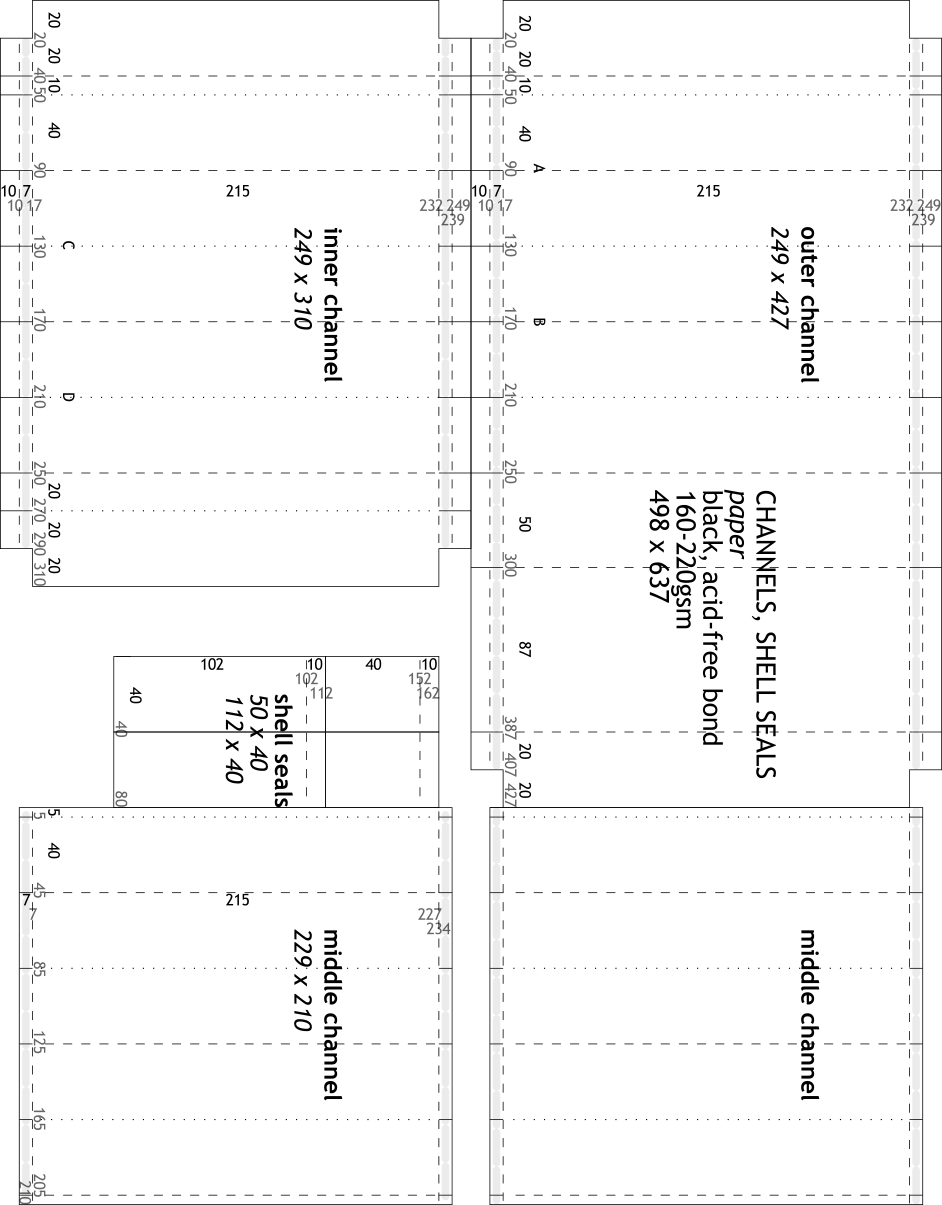
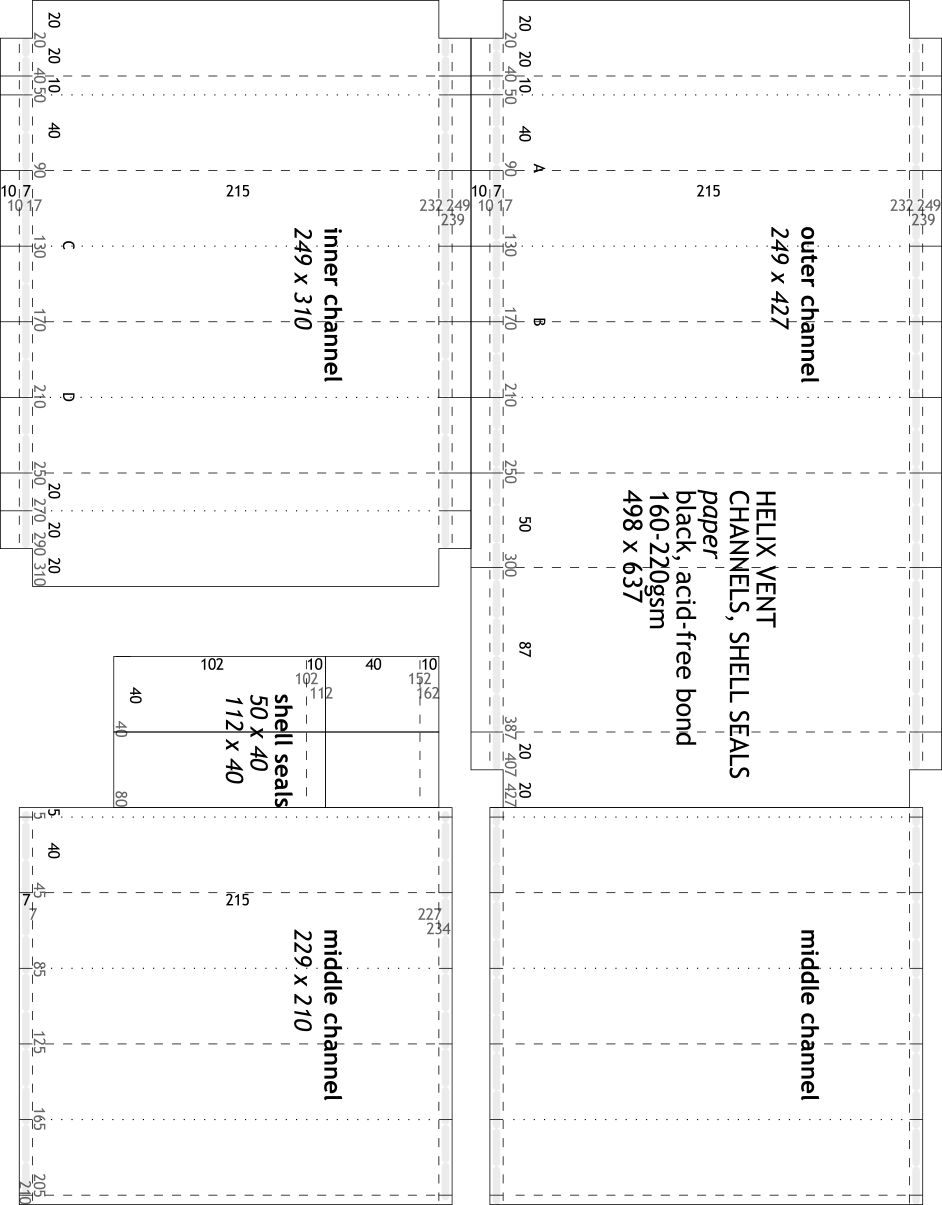
helix-s renaming, make, air

Changed region(s): [[0.6465, 0.3992, 0.8312, 0.6448]]

diff --git a/manuscript/air.md b/manuscript/air.md
@@ -85,12 +85,15 @@ Here are further design constraints, photos, plans, and instructions for making 
 ### helix vent {#helix-vent}
 
 ![](images/helix-vent-complete.jpg)  
-![](images/helix-vent-core-exploded.jpg)  
+
+This photo is of the old helix vent. The new one is shorter, narrower, thicker, but otherwise the same.
+
 [![plan: helix vent, assembly](images/helix-vent-assembly.png)](http://darkroomretreat.com/img/plan/helix-vent-assembly.pdf)  
 [![plan: helix vent, channels](images/helix-vent-channels.png)](http://darkroomretreat.com/img/plan/helix-vent-channels.pdf)  
 [![plan: helix vent, inner wall](images/helix-vent-inner-wall.png)](http://darkroomretreat.com/img/plan/helix-vent-inner-wall.pdf)  
 [![plan: helix vent, outer wall](images/helix-vent-outer-wall.png)](http://darkroomretreat.com/img/plan/helix-vent-outer-wall.pdf)  
 [![plan: helix vent, shell](images/helix-vent-shell.png)](http://darkroomretreat.com/img/plan/helix-vent-shell.pdf)  
+[![plan: helix vent, slot](images/helix-vent-slot.png)](http://darkroomretreat.com/img/plan/helix-vent-slot.pdf)  
 
 &nbsp;
 
@@ -103,13 +106,7 @@ The helix vent can go anywhere. Flaps of either its edge or face opening poke th
 - wall (leading outside or to another room): attach vent to a flat cardboard box and attach box to the wall over the vent. Vent can be either supply or return
 - silencer
     - outside: with shell, attached at face opening
-    - inside: without shell, attached at face or edge. I also made a second "sr" version. It is simpler, more efficient, higher capacity that attaches at the edge. It has fewer light stopping corners and no shell, so it is only for installing inside the silencer or other enclosure with two or more corners.
-
-[![plan: helix vent sr, assembly](images/helix-vent-sr-assembly.png)](http://darkroomretreat.com/img/plan/helix-vent-sr-assembly.pdf)
-
-&nbsp;
-
-Find channel and wall drawings in the [____zip file____](http://darkroomretreat.com/darkroom-retreat.zip).
+    - inside: without shell, attached at face or edge. I also made a second "s" version (s for short, straight, silencer). It is simpler, more efficient, higher capacity that attaches at the edge. It has fewer light-stopping corners and no shell, so it is only for installing inside the silencer or other enclosure with two or more corners. S version drawings in next section.
 
 If your darkroom's ventilation is passive, put vents both low and high in room to enable convection. This works better the greater the inside and outside temperature difference; the greater the vertical distance between vents; and the more vents. 
 
@@ -146,13 +143,14 @@ Read through instructions once while studying plans.
 	- when not in use, store core inside shell, taping up flap by edge opening. Cover exposed part of core with scrap piece of cardboard to protect core from being crushed.
 6. installation
     1. determine vent location 
-    	- in blind, panel or silencer
+    	- in blind, panel, or silencer
     	- whether it will attach at edge or face opening
-    	- shell is likely unnecessary when core is attached inside silencer
-        - vent should not touch window handles, locks, and frame 
-    2. mark slot with slot template: 
-    	- face opening, 50 x 216 (most common, uses shell unless inside silencer)
-    	- edge opening, 63 x 216 (no shell, inside silencer)
+    	- shell is unnecessary when installed inside silencer or other enclosure
+        - vent should not touch window handles, locks, or frame 
+    2. mark slot with slot plan
+        - the slot plan spaces slot correctly on most blinds and panels
+    	- face opening, 50 x 216, on blinds, panels, or outside silencer, with shell
+    	- edge opening, 63 x 216, inside silencer or other enclosure, without shell
     3. cut out slot
     4. position vent over slot and fit vent flaps through it
     5. when attaching to soft window covering like fabric, plastic sheeting, or cardboard, pull long flap snug, use back of table knife tip to crease the outside of it right where it passes through slot
@@ -160,6 +158,16 @@ Read through instructions once while studying plans.
     7. repeat with other long flap, then with short flaps
     8. attach shell to cover with tape, glue, or screws going through cover, into wooden braces if cover is soft
     9. cover shell with foil and/or white paper to minimize warping by sun
+
+### helix-s {#helix-s}
+
+[![plan: helix-s vent, assembly](images/helix-s-vent-assembly.png)](http://darkroomretreat.com/img/plan/helix-s-vent-assembly.pdf)  
+[![plan: helix-s vent, channels](images/helix-s-vent-channels.png)](http://darkroomretreat.com/img/plan/helix-s-vent-channels.pdf)  
+[![plan: helix-s vent, inner-wall](images/helix-s-vent-inner-wall.png)](http://darkroomretreat.com/img/plan/helix-s-vent-inner-wall.pdf)  
+[![plan: helix-s vent, outer-wall](images/helix-s-vent-outer-wall.png)](http://darkroomretreat.com/img/plan/helix-s-vent-outer-wall.pdf)  
+[![plan: helix-s vent, slot](images/helix-s-vent-slot.png)](http://darkroomretreat.com/img/plan/helix-s-vent-slot.pdf)  
+
+Follow helix vent instructions above, adapting as necessary.
 
 ### threshold vent {#threshold-vent}
 

diff --git a/manuscript/make.md b/manuscript/make.md
@@ -1,7 +1,7 @@
 # 8 - make {#make}
 
 > "The time for half-measures and talk is over."  
---Maximus in _Gladiator_
+ -- Maximus in _Gladiator_
 
 &nbsp;
 
@@ -17,9 +17,9 @@ I suggest that, your first time through these chapters, you read everything in t
 
 All components rely on the basic instructions in the following sections: **metric**, **tools**, **plans**, and **fabrication**. Each component has special instructions and design constraints in its own section in later chapters:
 
-[____7&nbsp; air____](#air)  
-[____8&nbsp; darkness____](#darkness)  
-[____9&nbsp; water____](#water)  
+>> [____9&nbsp; air____](#air)  
+[____10&nbsp; darkness____](#darkness)  
+[____11&nbsp; water____](#water)  
 
 After improvising darkness to sleep in [____*tonight*____](#tonight), the [____*instant sleeping mask*____](#instant) probably comes next. Thus initiated, you can begin your training as a darkroom-building ninja. You will become invisible to everyone. And you won't be able to see anything, either. Haha.
 

diff --git a/manuscript/foreword.md b/manuscript/foreword.md
@@ -4,7 +4,7 @@ This book comes out of a long investigation into the cause of joy.
 
 At 15, great joy spontaneously overcame me. It felt normal. It disappeared after three heavenly months. I felt gripped by the need to solve its mystery. It eclipsed my other concerns.
 
-After 21 years of investigation, I did. I discovered the way nature provides us to heal from major trauma, joy's destroyer. Four years of testing followed, then four more of refinement and documentation.
+After 21 years of investigation, I did. I discovered the way nature provides us to heal from major trauma, joy's destroyer. Four years of testing followed, then five more of refinement and documentation.
 
 Briefly, joy is a function of being alive, not effort. Lack of joy indicates a damaged system, not moral failure. Given conditions of profound rest, this damage heals by itself, and joy returns.
 
